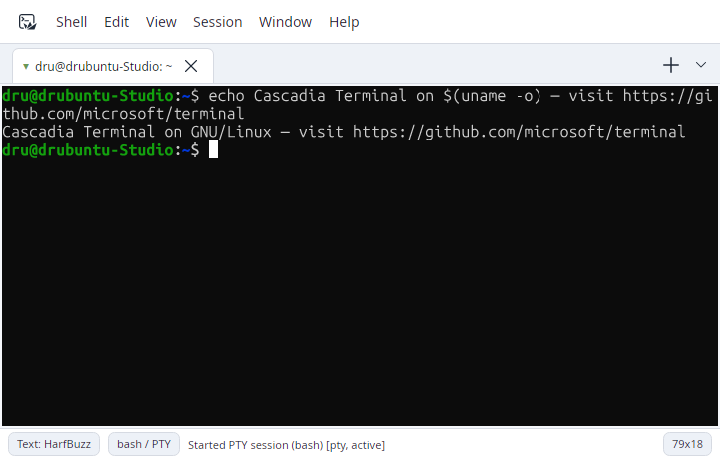
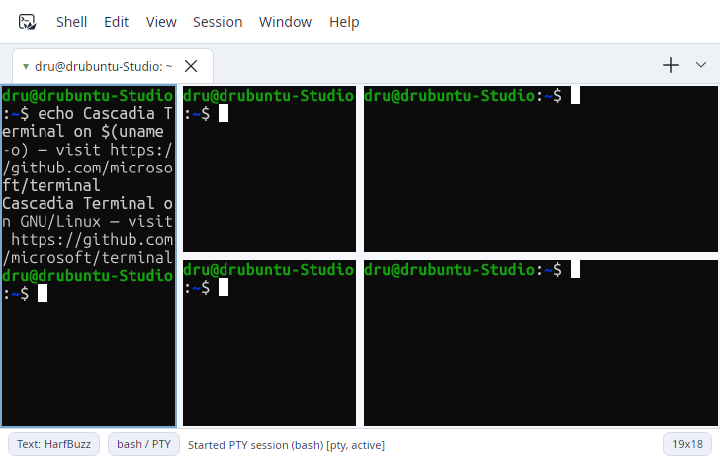
Resize-stability harness scene (11-resize-stability.png)

Changed region(s): [[0.0, 0.1826, 1.0, 0.9435]]

diff --git a/tools/CascadiaTerminal.Screenshot/Program.cs b/tools/CascadiaTerminal.Screenshot/Program.cs
@@ -103,6 +103,25 @@ Capture("10-link-hints");
 SendKeys(Avalonia.Input.PhysicalKey.Escape, 1);
 Pump(seconds: 0.3);
 
+// Resize-stability scene: with live shells and a split visible, wiggle the
+// window size in many small steps (drives the same per-tick pane layout
+// path as dragging a splitter), then settle and capture. The prompt must
+// appear exactly once per pane, unduplicated.
+Run(() => window.ViewModel!.SplitPaneRightCommand.Execute().Subscribe());
+Pump(seconds: 1.5);
+for (int i = 0; i < 24; i++)
+{
+    int step = i;
+    Run(() => window.Width = 1280 - ((step % 12) * 24));
+    Pump(seconds: 0.06);
+}
+
+Run(() => window.Width = 1280);
+Pump(seconds: 1.5);
+Capture("11-resize-stability");
+Run(() => window.ViewModel!.ClosePaneOrTabCommand.Execute().Subscribe());
+Pump(seconds: 0.5);
+
 // Clean close so the workspace snapshot persists (session restore).
 // Close extra tabs first so confirm-close-all-tabs does not intercept.
 Run(() => window.ViewModel!.CloseCurrentTabCommand.Execute().Subscribe());
